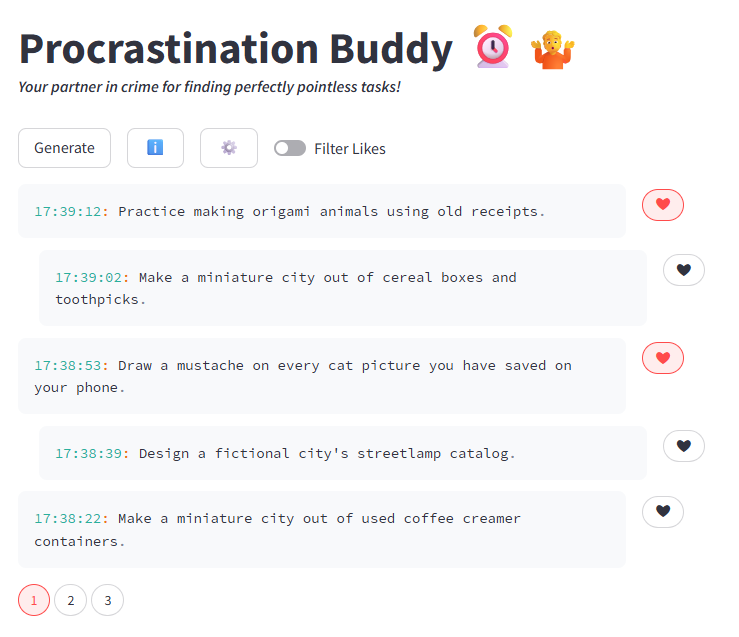
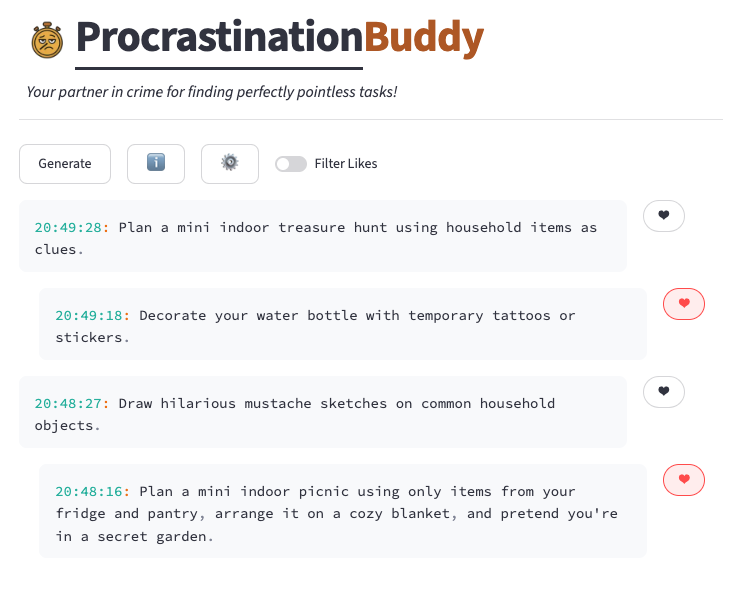
Fix mistral pull progress bar crash and refresh model list/docs
Guard st.progress() against ratios outside [0,1] caused by Ollama
sending completed/total from mismatched layers during multi-layer
pulls, and only merge completed/total when both arrive together in
the backend poller. Swap out unreachable model options (llama3:70b,
llama4, deepseek-v2:16b, duplicate smollm2 entry) for models that fit
this machine's CPU/RAM budget. Includes rebranded dialog titles and
refreshed screenshots/e2e assertions.

diff --git a/tests/e2e/tests/procrastination.spec.ts b/tests/e2e/tests/procrastination.spec.ts
@@ -6,7 +6,7 @@ buddyTest.describe("Procrastination Buddy UI", () => {
     await page.goto("http://localhost:8501");
     await on(page).main.do.openSettings();
     await expect(on(page).modal.settings()).toBeVisible();
-    await expect(on(page).modal.settings()).toHaveText(/Tweak Buddy/);
+    await expect(on(page).modal.settings()).toHaveText(/TweakBuddy/);
     await on(page).modal.settings.do.chooseLanguage("English");
     await on(page).modal.settings.do.chooseTimezone("Europe/Berlin");
     await on(page).modal.settings.do.chooseModel("smollm2:1.7b");
@@ -32,7 +32,7 @@ buddyTest.describe("Procrastination Buddy UI", () => {
   buddyTest("should display the info modal", async ({ on, page }) => {
     await on(page).main.do.openInfo();
     await expect(on(page).modal.info()).toBeVisible();
-    await expect(on(page).modal.info()).toHaveText(/Explanation Buddy/);
+    await expect(on(page).modal.info()).toHaveText(/ExplanationBuddy/);
     await on(page).modal.info.do.close();
     await expect(on(page).modal.info()).toBeHidden();
   });
@@ -40,7 +40,7 @@ buddyTest.describe("Procrastination Buddy UI", () => {
   buddyTest("should display settings modal", async ({ on, page }) => {
     await on(page).main.do.openSettings();
     await expect(on(page).modal.settings()).toBeVisible();
-    await expect(on(page).modal.settings()).toHaveText(/Tweak Buddy/);
+    await expect(on(page).modal.settings()).toHaveText(/TweakBuddy/);
     await on(page).modal.settings.do.close();
     await expect(on(page).modal.settings()).toBeHidden();
   });

diff --git a/backend/src/services/tasks.py b/backend/src/services/tasks.py
@@ -82,12 +82,12 @@ def _run_pull(url: str, model: str) -> None:
                     continue
                 data = json.loads(line)
                 fields = {"status": "downloading", "detail": data.get("status", "")}
-                # Trailing messages (e.g. "verifying sha256 digest") omit
-                # completed/total; keep the last known progress instead of
-                # resetting the bar to 0.
-                if "completed" in data:
+                # completed/total describe the current layer and must come from
+                # the same message - each layer has its own size, so pairing a
+                # stale value from a differently-sized layer with a fresh one
+                # can push the ratio outside [0, 1].
+                if "completed" in data and "total" in data:
                     fields["completed"] = data["completed"]
-                if "total" in data:
                     fields["total"] = data["total"]
                 _set_pull_state(model, **fields)
         _set_pull_state(model, status="ready")

diff --git a/frontend/src/config/constants.py b/frontend/src/config/constants.py
@@ -6,8 +6,8 @@ BACKEND_URL = os.getenv("BACKEND_URL", "http://localhost:5001")
 TEXTS = {
     "generic": {
         "title": "ProcrastinationBuddy",
-        "help_dialog": "Explanation Buddy ⁉🙋",
-        "settings_dialog": "Tweak Buddy 🛠🙎",
+        "help_dialog": "ExplanationBuddy ⁉🙋",
+        "settings_dialog": "TweakBuddy 🛠🙎",
         "info_button": "ℹ",
         "like_button": "❤",
         "config_button": "⚙",
@@ -168,13 +168,13 @@ TEXTS = {
 }
 
 MODELS = [
-    "deepseek-v2:16b",
+    "smollm2:1.7b",
+    "llama3.2",
+    "phi4-mini",
+    "gemma3:4b",
+    "qwen3:4b",
     "mistral:instruct",
-    "smollm2:1.7b",
-    "llama3:70b",
-    "llama4",
     "qwen3:14b",
-    "smollm2:1.7b",
 ]
 
 SETTINGS = {

diff --git a/frontend/src/ui/rendering.py b/frontend/src/ui/rendering.py
@@ -193,7 +193,7 @@ def _poll_model_download():
 
     completed = status.get("completed", 0)
     total = status.get("total", 0)
-    progress = completed / total if total else 0.0
+    progress = min(completed / total, 1.0) if total else 0.0
 
     st.progress(
         progress, text=local_text["model_download_text"].format(model=model)

diff --git a/README.md b/README.md
@@ -19,11 +19,9 @@ Procrastination Buddy is an amusing, yet functional app designed to help you fin
     <img src="docs/settings-light.png" alt="Settings Light" height="300px"/>
   </a>
   <a href="docs/help-light.png">
-    <img src="docs/help-light-partial.png" alt="Help Light" height="300px"/>
+    <img src="docs/help-light.png" alt="Help Light" height="300px"/>
   </a>
 </p>
-
-![animated preview](docs/buddy-preview.gif)
 
 ## Getting Started
 
